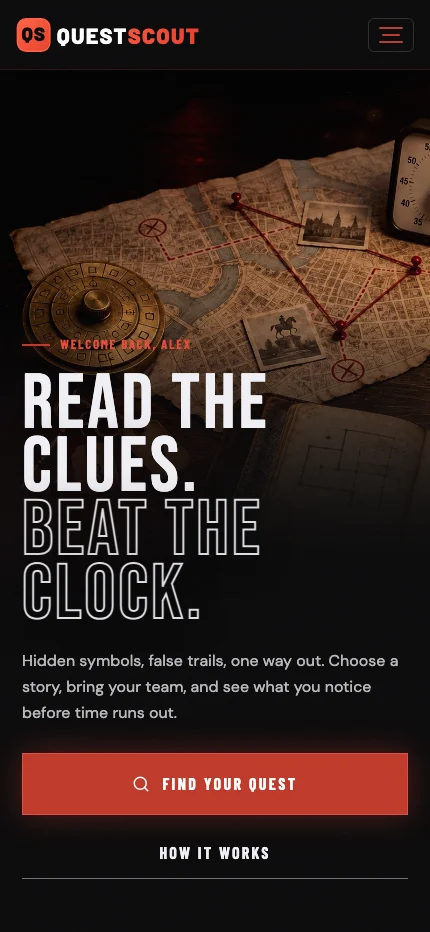
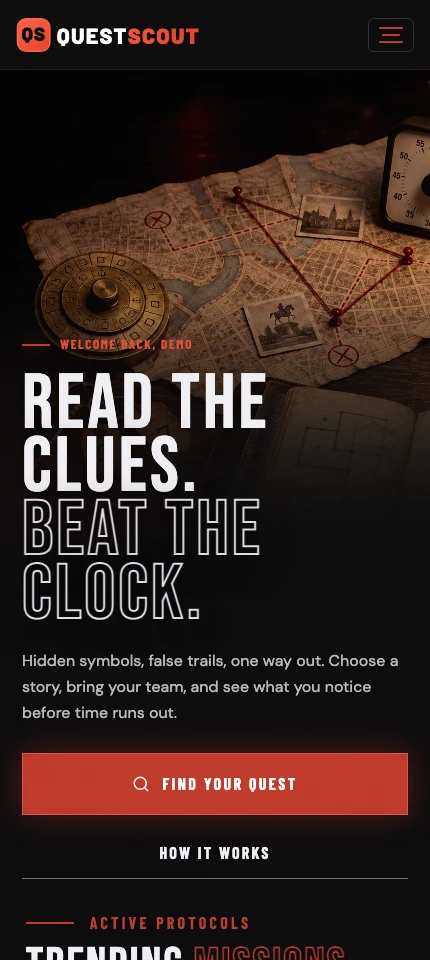
style(home): remove excess responsive section gaps

diff --git a/client/src/pages/UserHomePage/UserHomePage.css b/client/src/pages/UserHomePage/UserHomePage.css
@@ -92,7 +92,7 @@
   z-index: 3;
   width: min(100%, 1440px);
   margin: 0 auto;
-  padding: 78px clamp(24px, 6vw, 88px) 96px;
+  padding: 78px clamp(24px, 6vw, 88px) 56px;
   padding-left: clamp(20px, 2vw, 32px);
 }
 
@@ -210,12 +210,12 @@
 
 .home-section {
   position: relative;
-  padding: 56px clamp(24px, 6vw, 80px);
+  padding: 48px clamp(24px, 6vw, 80px);
   border-bottom: 1px solid var(--fog);
 }
 
 .home-section-inner { width: min(100%, 1200px); margin: 0 auto; }
-.home-section-header { margin-bottom: 32px; }
+.home-section-header { margin-bottom: 28px; }
 
 .home-section-eyebrow {
   display: flex;
@@ -472,8 +472,8 @@
 @keyframes home-loader-spin { to { transform: rotate(360deg); } }
 
 @media (max-width: 1000px) {
-  .home-section { padding-block: 28px; }
-  .home-section-header { margin-bottom: 24px; }
+  .home-section { padding-block: 22px; }
+  .home-section-header { margin-bottom: 20px; }
   .home-room-grid { grid-template-columns: repeat(2, minmax(0, 1fr)); }
   .home-room-link:last-child { grid-column: span 2; }
   .home-steps { grid-template-columns: repeat(3, minmax(0, 1fr)); }
@@ -486,16 +486,16 @@
   .qs-hero-art { inset: 0; width: 100%; height: 58%; mask-image: linear-gradient(to bottom, #000 0%, #000 48%, transparent 100%); }
   .qs-hero-art img { object-position: 62% center; }
   .qs-hero-art::after { background: linear-gradient(to bottom, rgba(10,10,11,0.12), rgba(10,10,11,0.12) 42%, var(--ink)); }
-  .qs-hero-inner { padding-top: 310px; padding-bottom: 76px; }
+  .qs-hero-inner { padding-top: 310px; padding-bottom: 36px; }
   .qs-hero-copy { width: min(100%, 640px); }
   .qs-hero-title { font-size: clamp(4rem, 15vw, 6.7rem); }
 }
 
 @media (max-width: 680px) {
-  .home-section { padding-block: 18px; }
-  .home-section-header { margin-bottom: 18px; }
-  .home-section-eyebrow { margin-bottom: 12px; }
-  .home-section-heading-row { align-items: flex-start; flex-direction: column; gap: 12px; }
+  .home-section { padding-block: 12px; }
+  .home-section-header { margin-bottom: 14px; }
+  .home-section-eyebrow { margin-bottom: 10px; }
+  .home-section-heading-row { align-items: flex-start; flex-direction: column; gap: 10px; }
   .home-room-grid,
   .home-steps,
   .home-contact-grid { grid-template-columns: 1fr; }
@@ -508,7 +508,7 @@
 
 @media (max-width: 560px) {
   .qs-hero { min-height: 720px; }
-  .qs-hero-inner { padding: 265px 22px 64px; }
+  .qs-hero-inner { padding: 265px 22px 20px; }
   .qs-hero-kicker { gap: 10px; margin-bottom: 18px !important; font-size: 13px; letter-spacing: 0.13em; }
   .qs-hero-kicker::before { width: 28px; }
   .qs-hero-title { font-size: clamp(3.7rem, 18vw, 5rem); }
